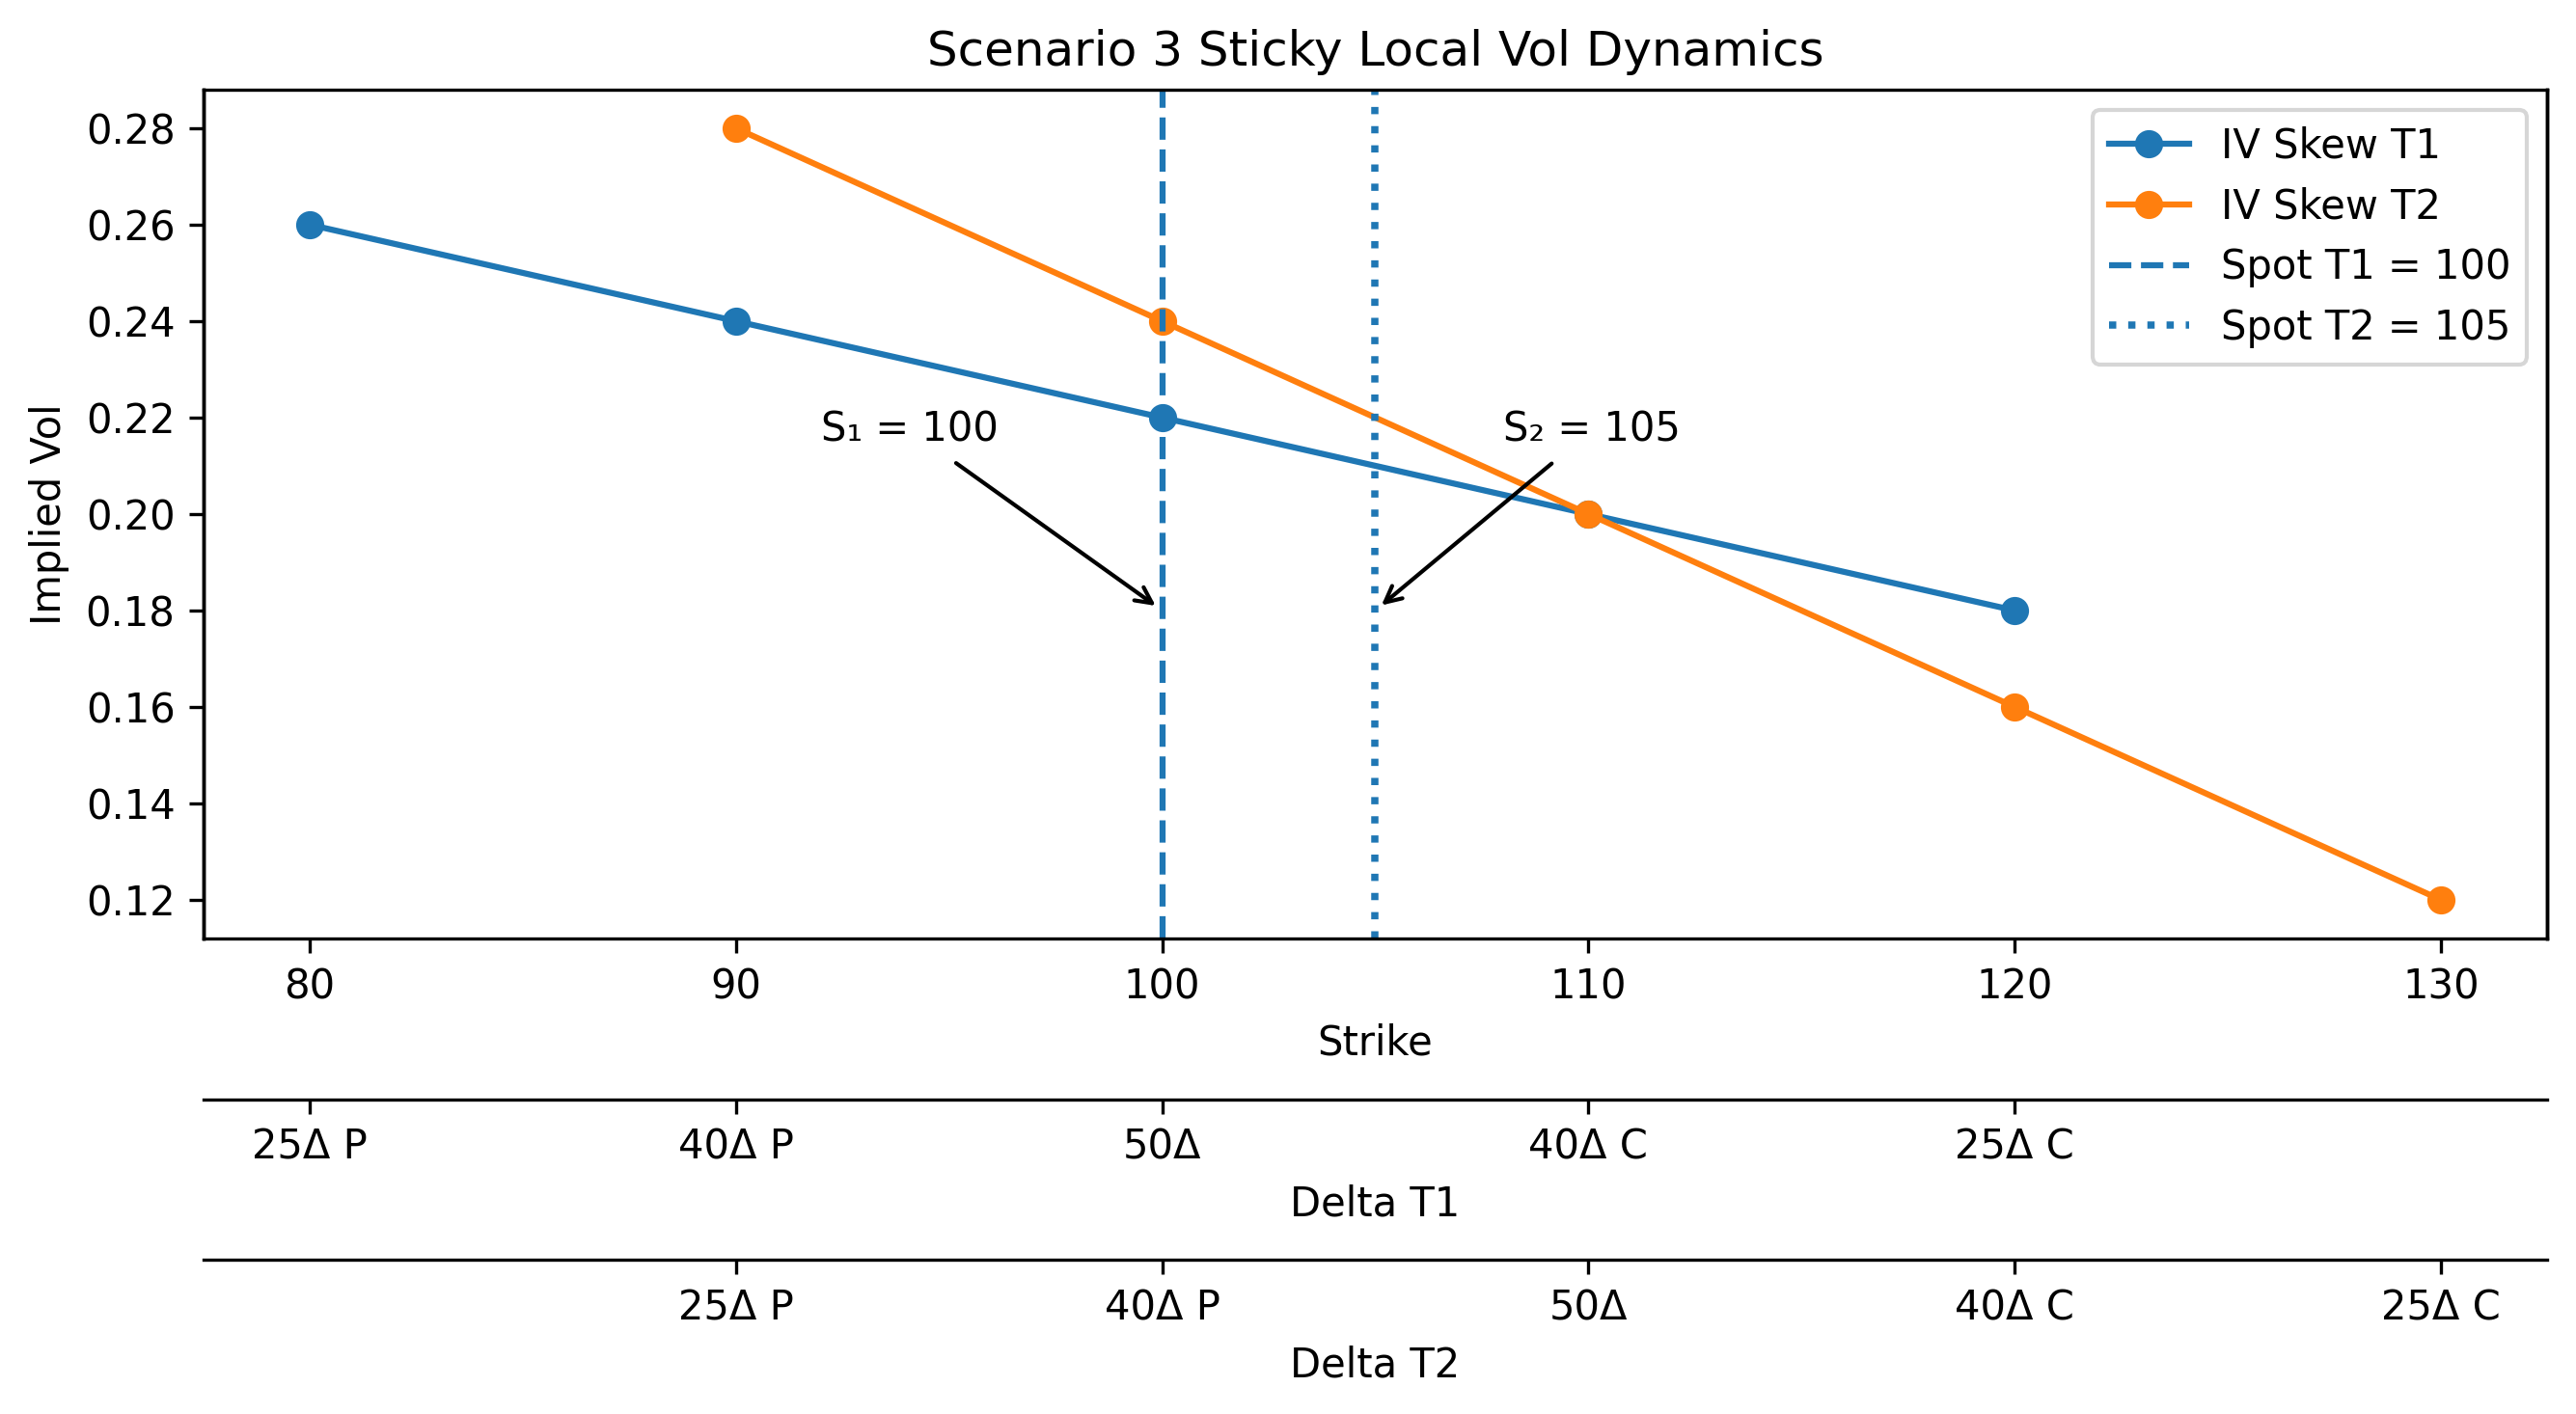
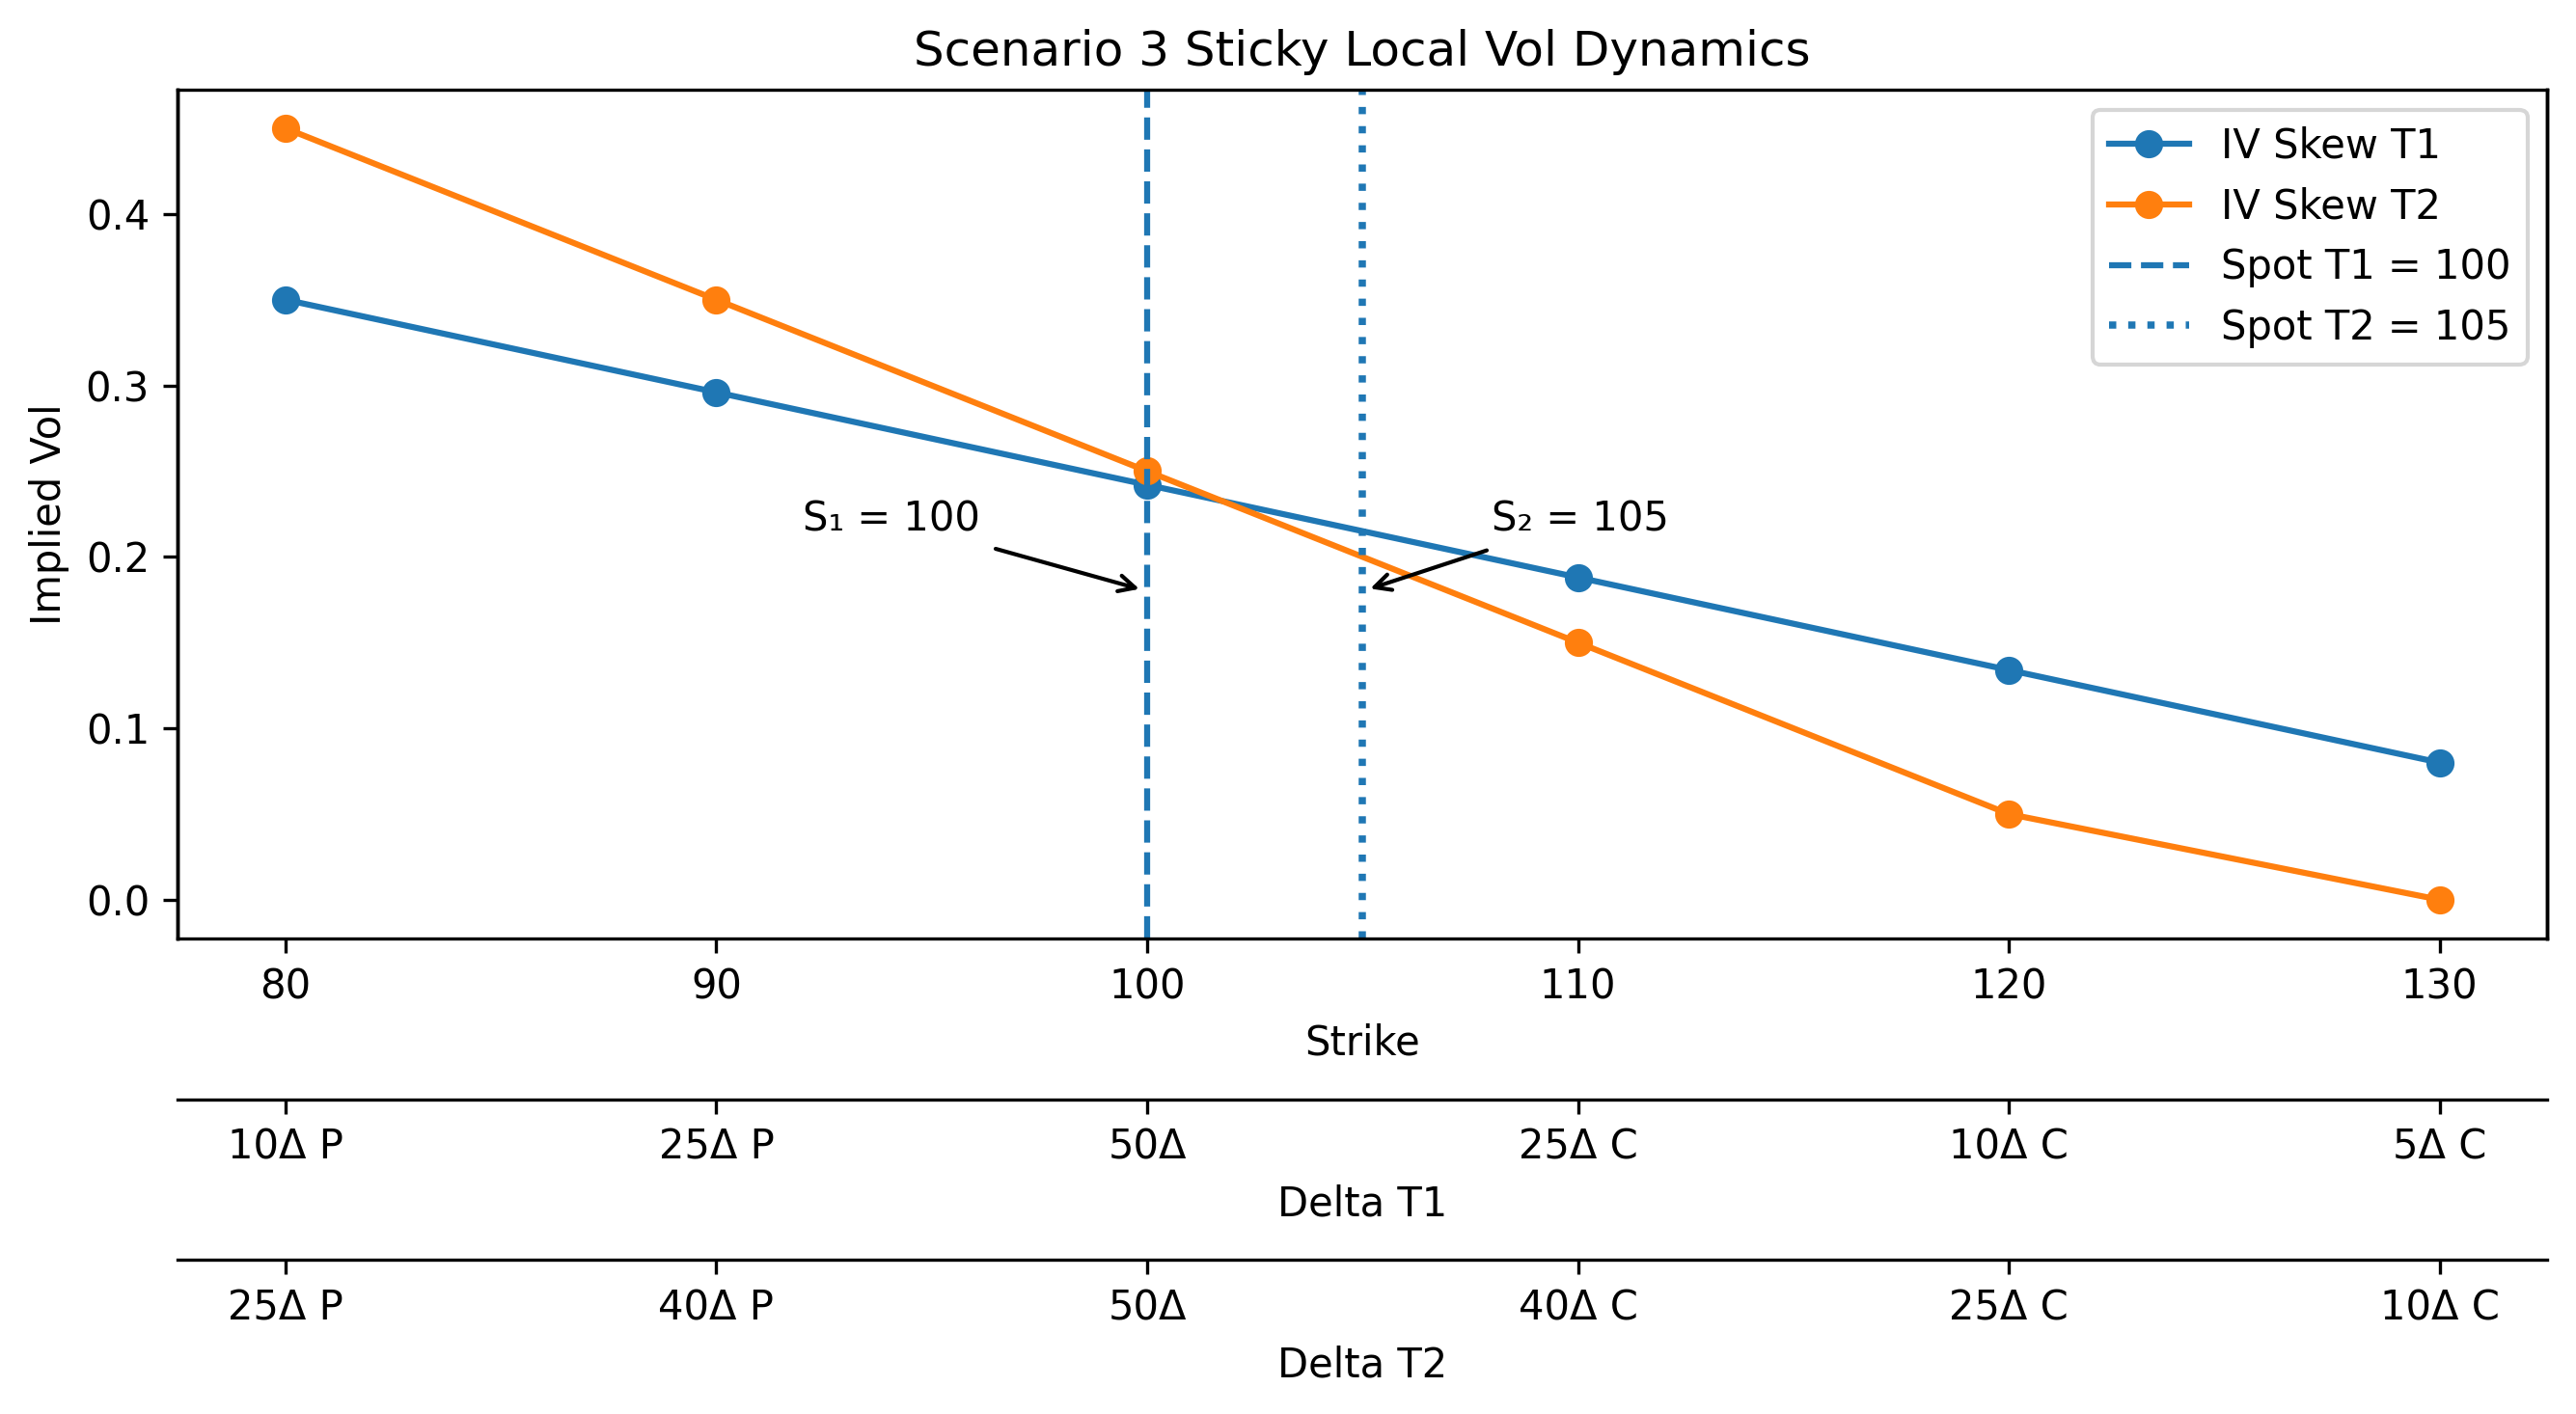
added image

diff --git a/_posts/2026-06-07-Fixed-Strike-Floating-Strike-Spot-Vol-Dynamics-And-The-Skew-Stickiness-Ratio-Part-1.md b/_posts/2026-06-07-Fixed-Strike-Floating-Strike-Spot-Vol-Dynamics-And-The-Skew-Stickiness-Ratio-Part-1.md
@@ -67,9 +67,9 @@ Sticky delta is different, this assumption says the atm vol (actually whole skew
 
 We have the same initial put price, call price and position delta, but because our option positions IV change at t2 we will get different prices.
 
-Put price t2 = 2.73
+Put price t2 = 0.13
 
-Call price t2 = 0.127
+Call price t2 = 2.73
 
 Portfolio notional value t2 = 100P_t2 - 100C_t2 + 100$$\Delta$$S_t2 = 4627
 
@@ -81,8 +81,35 @@ Scenario 3: Delta Hedged Long Skew P&L Under Sticky Local Volatility Dynamics
 
 As far as I know this was defined by Collin Bennet in his great book "Trading Volaitility". Local volatility is another way of modeling vol where we assume the instantaneous volatility is a function of the current asst price and time $$\sigma_{loc} = sigma_{loc}(S, t)$$. My favorite definition of local volatility once again comes from Emanuel Dermans lecture series where he defines local vol as the volatility that justifies current option prices given spot is at a certain level at a certain time. I can write a whole post about local vol and maybe one day I will but will leave it at that for now. In the sticky local volatility regime we assume that atm IV rises as the market falls, ie negative spot vol correlation. But unlike the other volatility dynamics sticky local volatility is not a unique transformation of the smile, as spot moves the exact way the skew rotates depends on the calibrated local volatility surface. Below we show a skew shift that would be advantageous to our Long skew position.
 
-![Sticky Local Vol Dynamics](/assets/images/Sticky-Local-Vol-Dynamics-Scenario-3-2026-07-02.png.png)
+![Sticky Local Vol Dynamics](/assets/images/Sticky-Local-Vol-Dynamics-Scenario-3-2026-07-02.png)
 
+Remeber in this scenario the 95 strike put IVs rise from t1 to t2 and the 105 strike call IVs fall.
+
+Put price t1 = 1.147
+
+Call price t1 = 1.04
+
+Portfolio notional value t2 = 100P_t2 - 100C_t2 + 100$$\Delta$$S_t2 = 5200
+
+Put price t2 = 0.12
+
+Call price t2 = 2.15
+
+Portfolio notional value t2 = 100P_t2 - 100C_t2 + 100$$\Delta$$S_t2 = 5247
+
+Portfolio P&L = Portfolio notional value t1 - Portfolio notional value t1 = 47 
+
+You can see in this regime dynamic we actually make money on the long skew trade.
+
+Now I didn't actually mention what my delta was in any of these scenarios and this is an important piece. For the first two scenarios it was -.47 and the third was -.5 and so we buy stock against that to hedge. But the thing is here I used a basic Black Scholes delta, in reality when you are trading skew you would want to use a "skew delta" which essentially adjusts our delta for how vol will move when spot moves. 
+
+$$
+\[
+\Delta = \Delta_{BS} + \text{Vega}\,\frac{\partial \sigma_{\mathrm{imp}}(S,K,T)}{\partial S}
+\]
+$$
+
+Each regime dynamic gives us a different skew delta
 
 SSR:
 